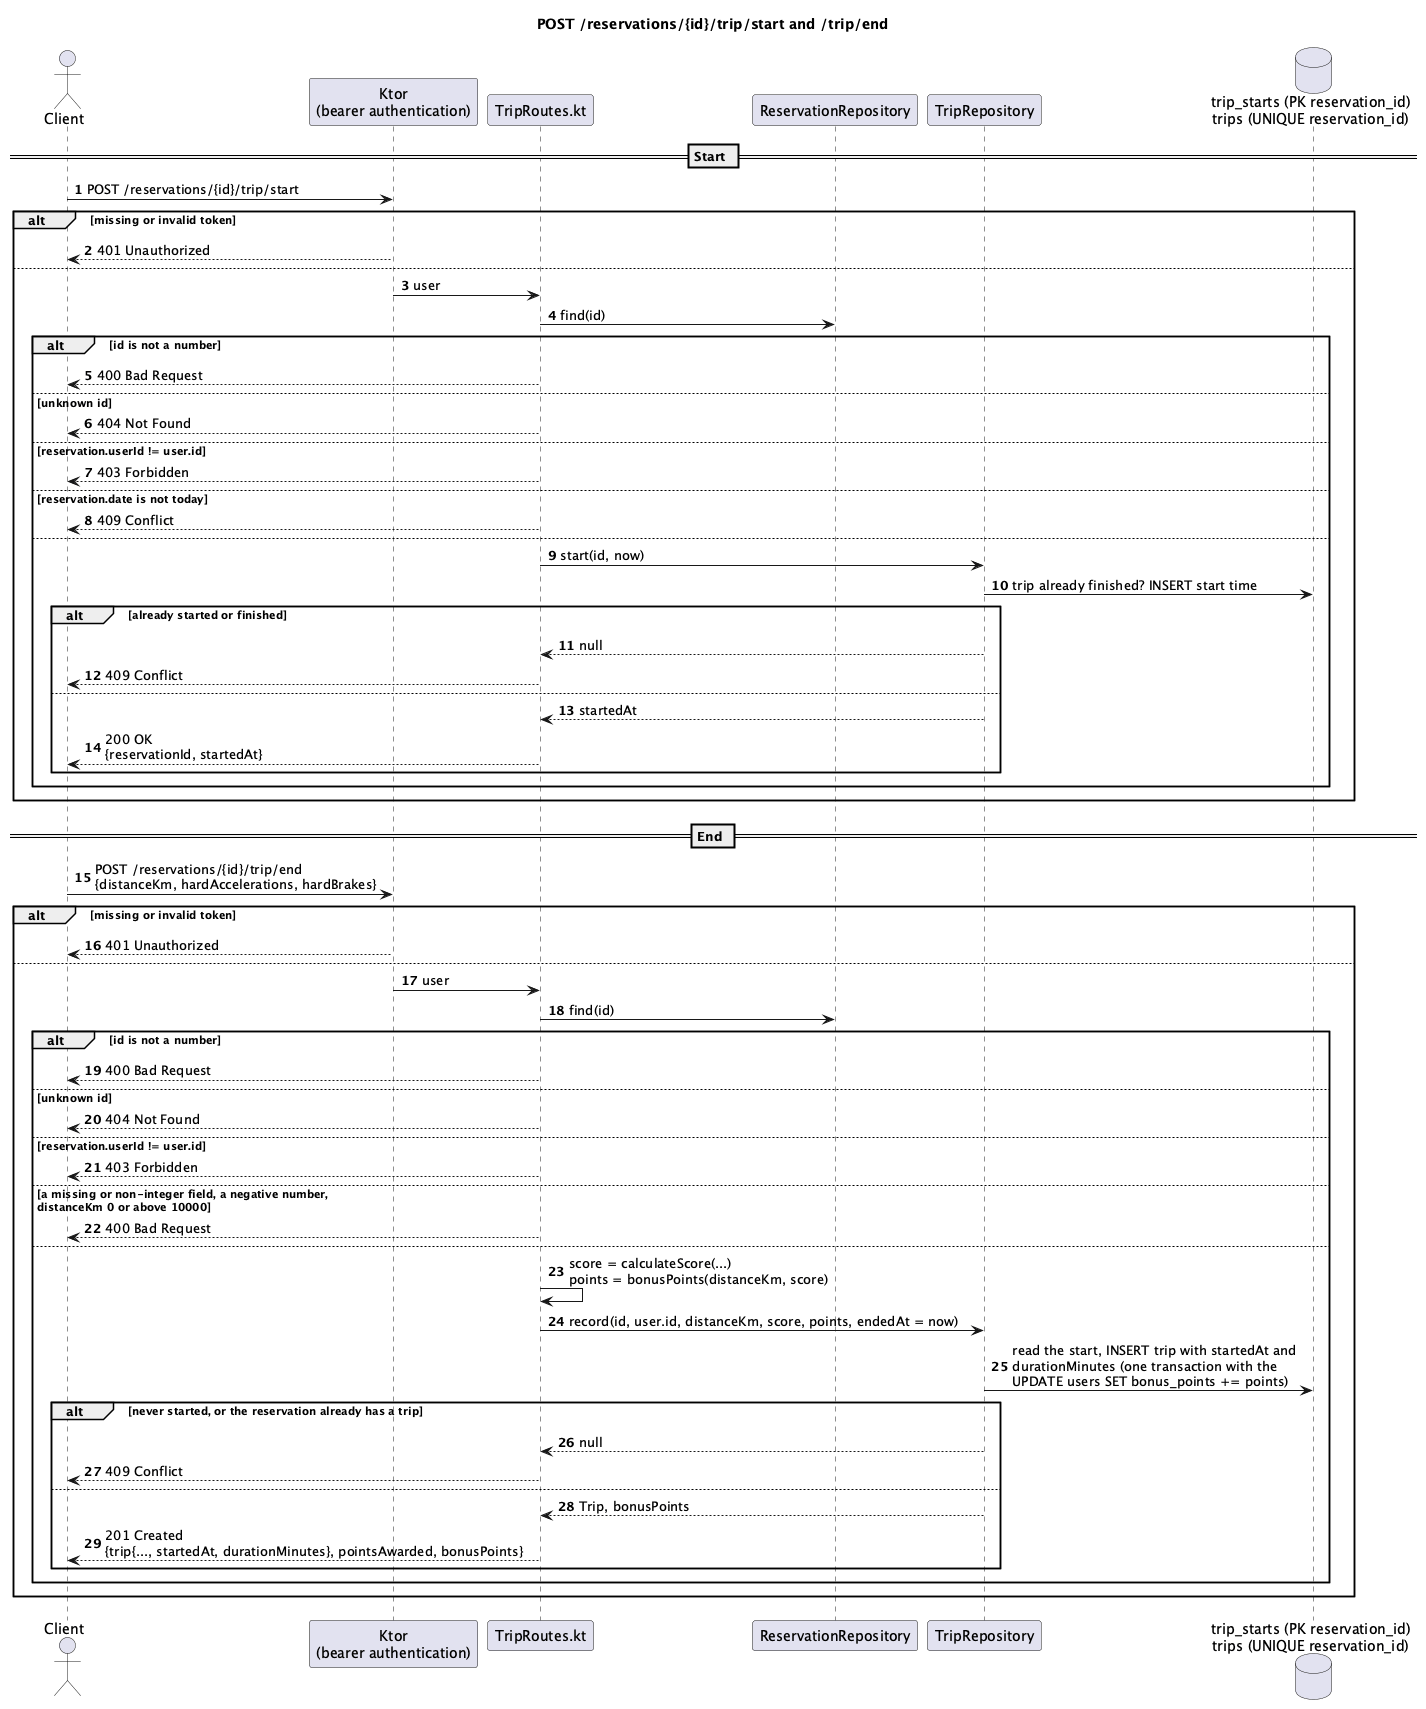
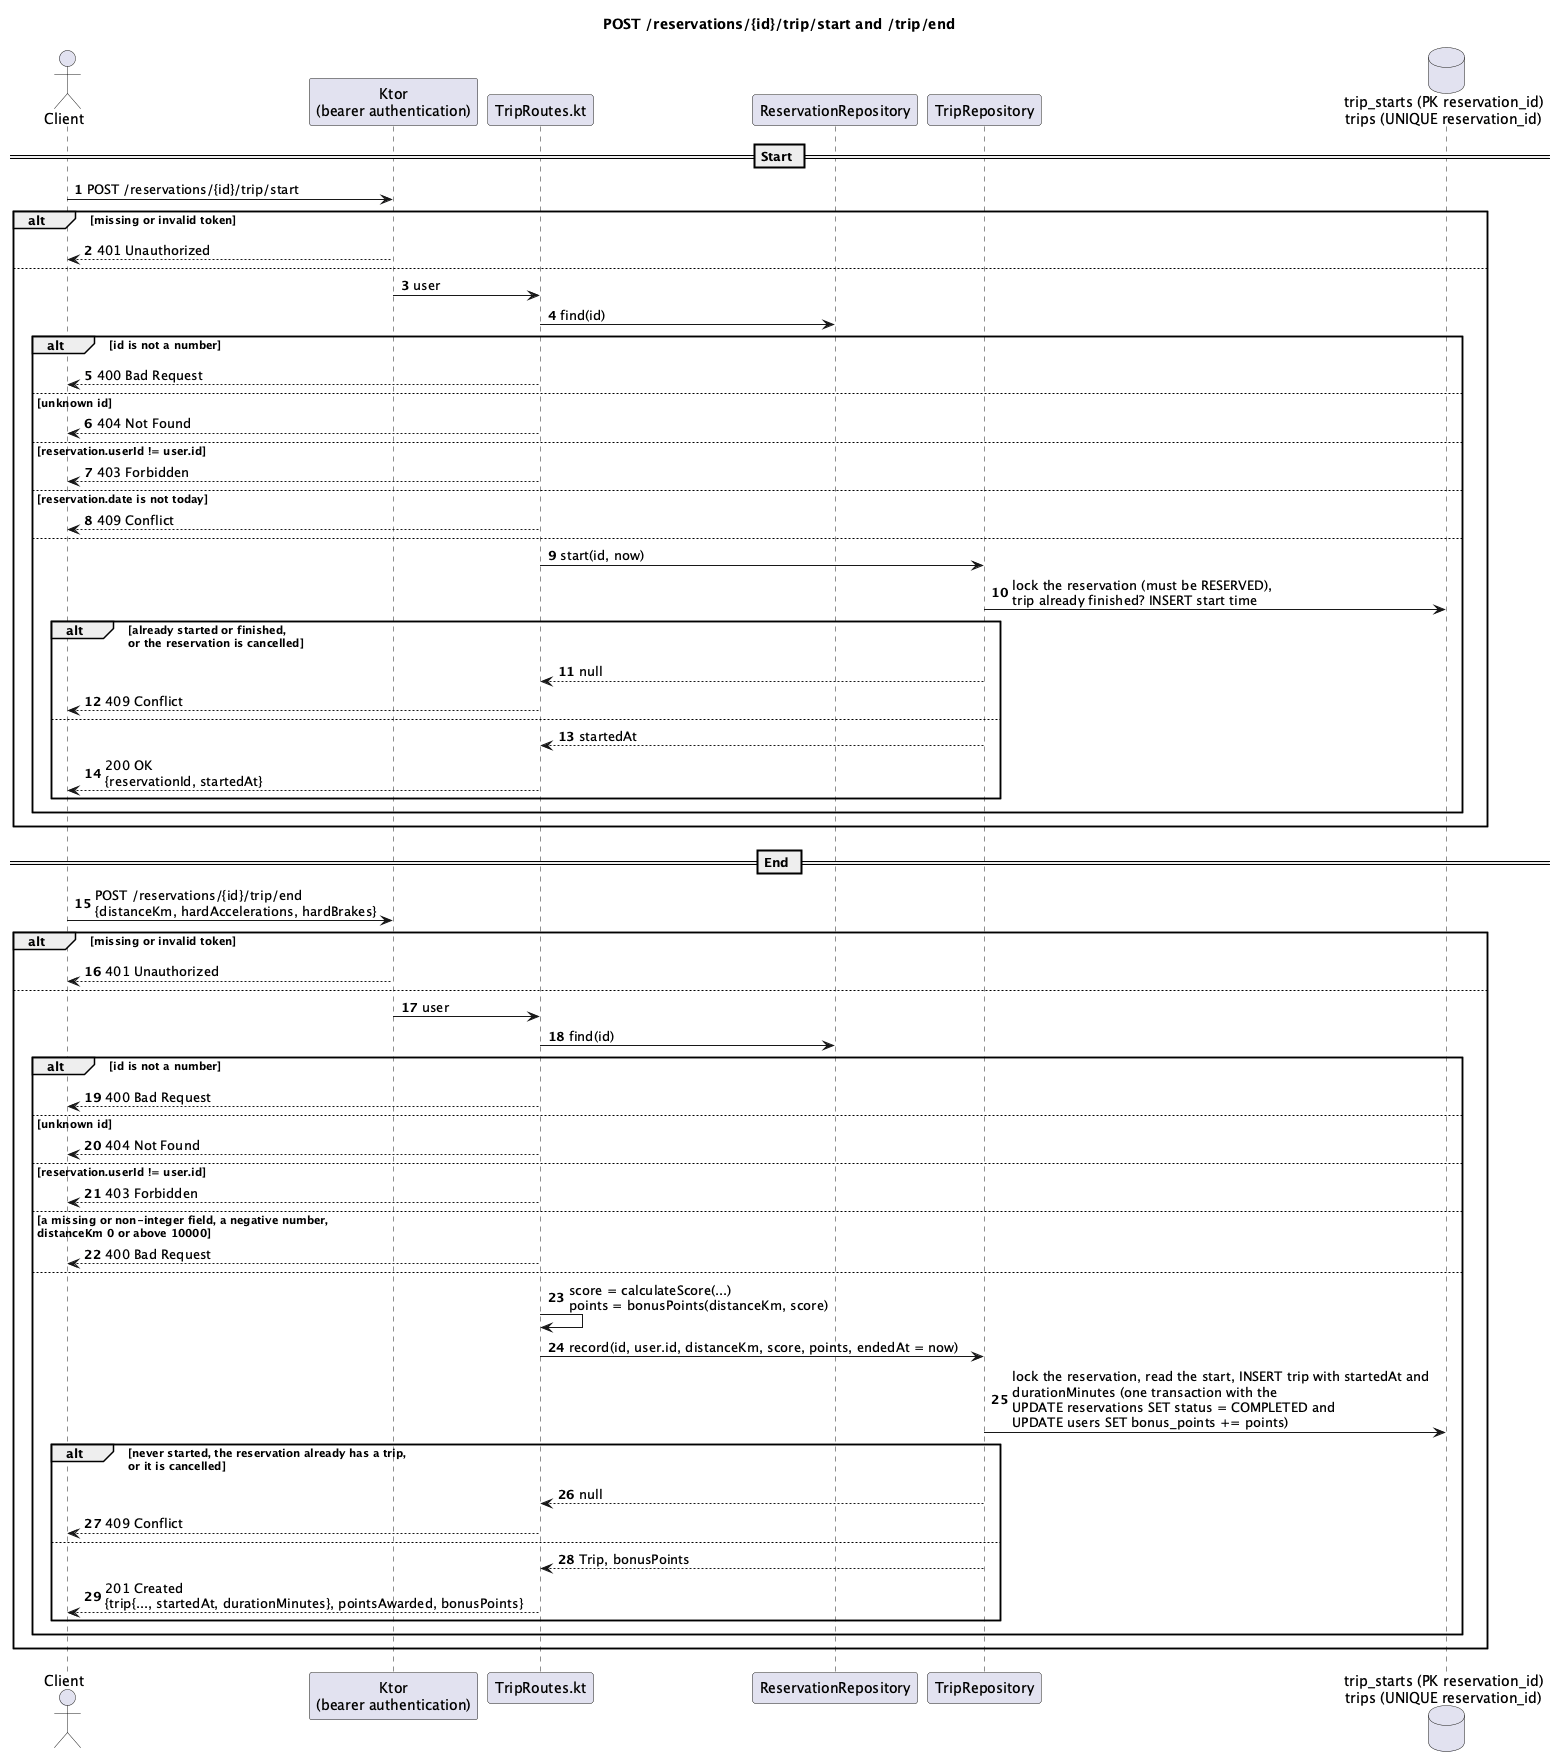
Document the reservation status, the list and the cancel change

diff --git a/README.md b/README.md
@@ -67,9 +67,9 @@ The connection defaults match `docker-compose.yml`. Override them with the envir
 RENT_A_CAR_URL=http://localhost:9000 ./kotlin run -m cli   # another server (or pass the url as the first argument)
 ```
 
-Start screen: register, log in, browse as a visitor (the car list, availability, costs and the leaderboard need no login) or quit. After login the main menu has the areas **Cars** (search, details with photos and ratings, availability, offer, update and delete your car), **Costs** (cost per km, quote, compare car types, TCO), **Reservations** (reserve, cancel), **Trips** (start, end, record in one go, history, rate), **Insights** (leaderboard, your stats), **Account** (update, password, delete) and **Organizations** (create, invite, join, roles, leave, organization cars). Type `back` at any prompt to cancel the action; `0` goes one menu up. Cars are picked from a numbered list, dates are `YYYY-MM-DD` and dayparts are picked from a list.
+Start screen: register, log in, browse as a visitor (the car list, availability, costs and the leaderboard need no login) or quit. After login the main menu has the areas **Cars** (search, details with photos and ratings, availability, offer, update and delete your car), **Costs** (cost per km, quote, compare car types, TCO), **Reservations** (reserve, list yours with their status, cancel), **Trips** (start, end, record in one go, history, rate), **Insights** (leaderboard, your stats), **Account** (update, password, delete) and **Organizations** (create, invite, join, roles, leave, organization cars). Type `back` at any prompt to cancel the action; `0` goes one menu up. Cars are picked from a numbered list, dates are `YYYY-MM-DD` and dayparts are picked from a list.
 
-The token is only kept in memory and the passwords are echoed while typing (`shortcut:` plain stdin). The API has no "who am I", no list of your reservations or organizations and no list of members, so the client shows the account id when you register (it asks for it once if you only log in) and keeps the reservations and organizations you made during the run for its pickers; others can be typed by id. Photo upload and listing members are not in the client.
+The token is only kept in memory and the passwords are echoed while typing (`shortcut:` plain stdin). The API has no "who am I", no list of your organizations and no list of members, so the client shows the account id when you register (it asks for it once if you only log in) and keeps the reservations and organizations you made during the run for its pickers; others can be typed by id (**Reservations > My reservations** shows the ids). Photo upload and listing members are not in the client.
 
 ### Adding a menu entry
 
@@ -101,7 +101,7 @@ docker compose up -d
 1. **Register** (name, email, a password of 8+ characters). You are logged in and the main menu opens.
 2. **Cars > List and search cars**: press Enter on every filter to see the fleet; try type `BEV`. **Car details** shows photos and ratings.
 3. **Costs > Quote a trip**: pick a car and a distance. **Cost per km** shows the energy price.
-4. **Reservations > Reserve a car**: pick a car, press Enter for today and pick a daypart.
+4. **Reservations > Reserve a car**: pick a car, press Enter for today and pick a daypart. **My reservations** shows them with their status.
 5. **Trips > Start my trip**, then **End my trip** (distance, hard accelerations, hard brakes): you earn bonus points. **Rate the car** afterwards.
 6. **Insights > Leaderboard** and **My driving stats** show your points.
 7. **Organizations > Create an organization**, then **Invite someone** for a code; a second client (register another account) can **Join with an invite code**.
@@ -130,6 +130,7 @@ Swagger UI is only served in Ktor's development mode, which is on by default. St
 | `GET`    | `/cars/{id}/tco`          | Total cost of ownership a year | `200`   | `400`, `401`, `403`, `404`        |
 | `POST`   | `/cars/{id}/reservations` | Reserve a car for a daypart    | `201`   | `400`, `401`, `404`, `409`        |
 | `GET`    | `/cars/{id}/availability` | Free dayparts on a date        | `200`   | `400`, `404`                      |
+| `GET`    | `/reservations`           | Your reservations with status  | `200`   | `400`, `401`                      |
 | `DELETE` | `/reservations/{id}`      | Cancel your reservation        | `204`   | `400`, `401`, `403`, `404`, `409` |
 | `POST`   | `/reservations/{id}/trip` | Record a trip, earn points     | `201`   | `400`, `401`, `403`, `404`, `409` |
 | `POST`   | `/reservations/{id}/trip/start` | Start your trip          | `200`   | `400`, `401`, `403`, `404`, `409` |
@@ -147,7 +148,7 @@ Swagger UI is only served in Ktor's development mode, which is on by default. St
 | `PUT`    | `/accounts/{id}/password` | Change your own password       | `204`   | `400`, `401`, `403`, `404`        |
 | `DELETE` | `/accounts/{id}`          | Delete your own account        | `204`   | `400`, `401`, `403`, `404`        |
 
-A car is rented per daypart: `MORNING` (06:00-12:00), `AFTERNOON` (12:00-18:00) or `EVENING` (18:00-24:00), once per car and date. Pass the `date` (`2026-10-12`) and `daypart` to `POST /cars/{id}/reservations`; `GET /cars/{id}/availability?date=2026-10-12` lists what is still free. `GET /cars?date=2026-10-12&daypart=MORNING` lists only the cars that are free then (not reserved, not in `Maintenance`) and combines with the other filters; `date` and `daypart` come together, and a missing, invalid or past value gives `400`. A car in `Maintenance` can't be reserved. There is no `Rented` status. The renter can cancel with `DELETE /reservations/{id}` until the daypart starts (its `from` time), after which, or once it has a trip or a started trip, the answer is `409`; the daypart is free again for anyone.
+A car is rented per daypart: `MORNING` (06:00-12:00), `AFTERNOON` (12:00-18:00) or `EVENING` (18:00-24:00), once per car and date. Pass the `date` (`2026-10-12`) and `daypart` to `POST /cars/{id}/reservations`; `GET /cars/{id}/availability?date=2026-10-12` lists what is still free. `GET /cars?date=2026-10-12&daypart=MORNING` lists only the cars that are free then (not reserved, not in `Maintenance`) and combines with the other filters; `date` and `daypart` come together, and a missing, invalid or past value gives `400`. A car in `Maintenance` can't be reserved. There is no `Rented` status. A reservation has a `status`: `RESERVED` (upcoming), `COMPLETED` (its trip was recorded) or `CANCELLED`. The renter can cancel with `DELETE /reservations/{id}` until the daypart starts (its `from` time): the reservation stays in the list as `CANCELLED` and its daypart is free again for anyone (only one active reservation per car, date and daypart). After the daypart starts, with a trip or a started trip, or when it is already completed or cancelled, the answer is `409`; a trip can't be recorded or started on a cancelled reservation (`409`). `GET /reservations` lists your own reservations, newest first, with an optional `status` filter and `limit` (1-100, default 20) and `offset` paging; an invalid value gives `400`.
 
 A car is private or belongs to an organization. `POST /cars` with an `organizationId` (you must be a member, else `403`) makes an organization car: it has no `ownerId`, every member can update it and see its TCO, and only an admin can delete it. Private cars are managed by their owner only. Deleting an account removes its private cars; organization cars stay.
 
